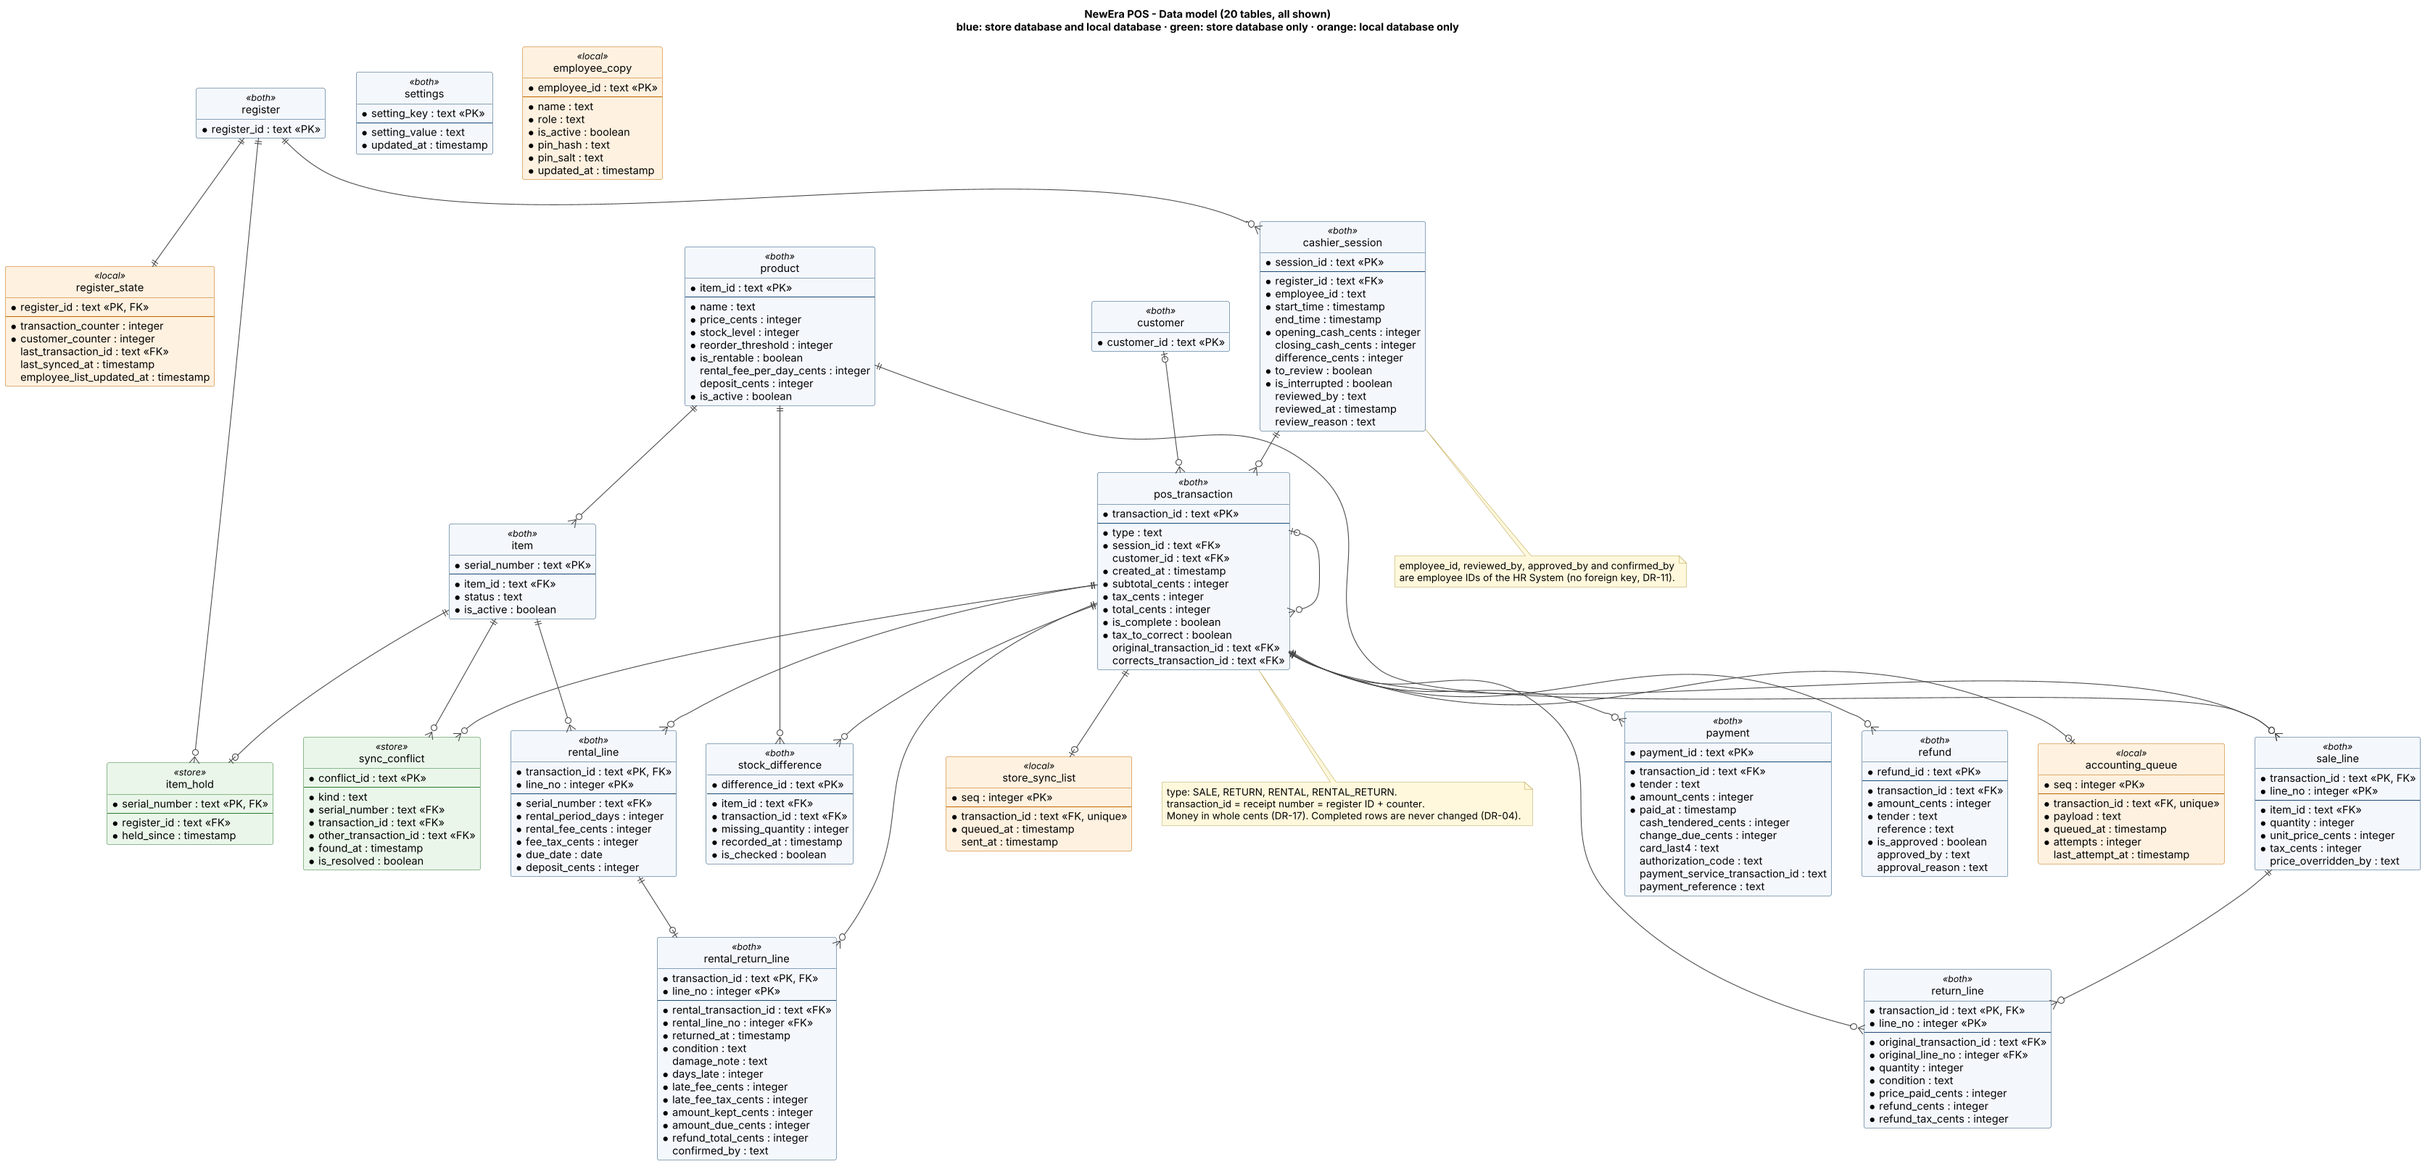
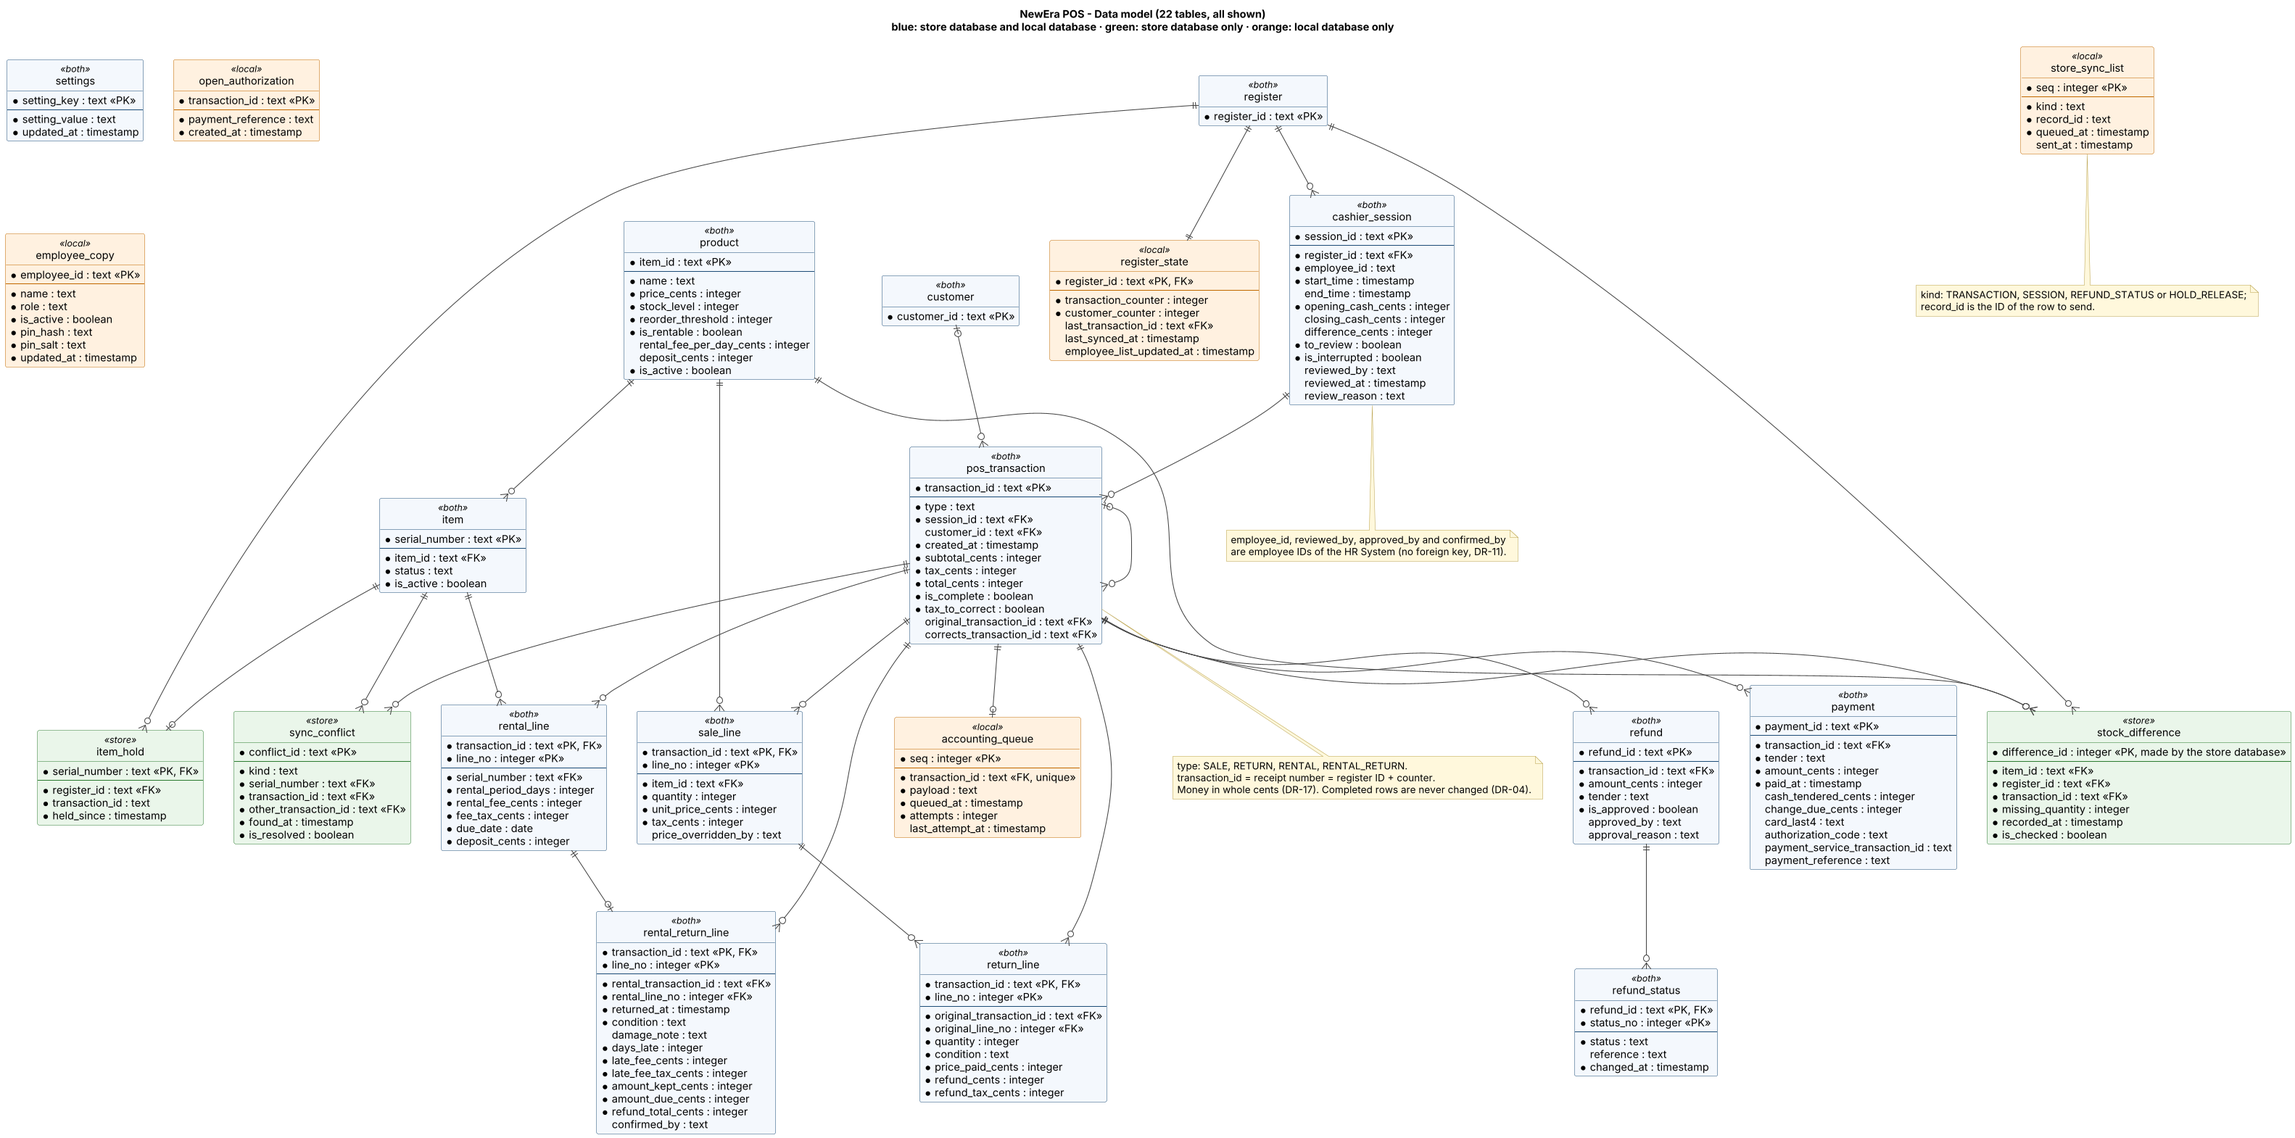
W10 - Data model v0.2; answer review #59 (refund_status, store database user, records waiting for the store database, stock_difference, open authorizations)

diff --git a/docs/design/data_model.md b/docs/design/data_model.md
@@ -3,7 +3,7 @@
 | | |
 | --- | --- |
 | **Maintainer** | Borja Nicolás |
-| **Version** | 0.1 (draft for review) |
+| **Version** | 0.2 (draft for review; after review #59) |
 | **Last updated** | W10 |
 | **Part of** | Increment 2 (Design): data view ([architecture.md](architecture.md) §4.5), decision records AD-05 and AD-06 |
 
@@ -15,14 +15,14 @@ This document gives the **tables of the store database and of the local database
 
 ![NewEra POS data model](../../assets/data_model.png)
 
-_20 of 20 tables shown. Editable source: [`assets/data_model.puml`](../../assets/data_model.puml) (PlantUML). Blue: table in the store database and in the local database. Green: store database only. Orange: local database only. `<<PK>>` primary key, `<<FK>>` foreign key; a column with a bullet is mandatory._
+_22 of 22 tables shown. Editable source: [`assets/data_model.puml`](../../assets/data_model.puml) (PlantUML). Blue: table in the store database and in the local database. Green: store database only. Orange: local database only. `<<PK>>` primary key, `<<FK>>` foreign key; a column with a bullet is mandatory._
 
 ## 3. Rules for all tables
 
 | Rule | What it means | Source |
 | --- | --- | --- |
 | Money in whole cents | Every amount is an integer number of cents (`price_cents`, `total_cents`…), so there are no rounding errors of floating-point numbers. The currency is one for the whole store (see §6). | DR-17 |
-| Completed rows never change | A completed transaction, its lines, payments and refunds are inserted once and never updated or deleted. A correction (for example, the tax of a transaction marked `tax_to_correct`) is a new `pos_transaction` row whose `corrects_transaction_id` is the original. | DR-04 |
+| Completed rows never change | A completed transaction, its lines, payments and refunds are inserted once and never updated or deleted. A correction (for example, the tax of a transaction marked `tax_to_correct`) is a new `pos_transaction` row whose `corrects_transaction_id` is the original. A card refund that is still pending changes its state by a **new row** of `refund_status`, so the `refund` row itself never changes. Two kinds of rows are updated on purpose, and are not transactions: the `cashier_session` (closed, then reviewed) and, in the store database, `item.status`, `product.stock_level` and `settings`. The rule is kept by the database user of the **store database**, see §4.6. | DR-04 |
 | No deletion of used rows | A product, item or customer that a transaction refers to is never deleted; a product or an item that is no longer used gets `is_active = false`. | DR-16 |
 | Unique IDs without a central counter | `transaction_id` is the receipt number: register ID, a dash and the counter of the register (for example `R02-000153`). `customer_id` is built in the same way. The counters are in `register_state`. | DC-09, AD-05 |
 | Employees are not a table of the store | The HR System is the master of the employees. `employee_id` columns (`cashier_session.employee_id`, `reviewed_by`, `approved_by`, `confirmed_by`, `price_overridden_by`) have no foreign key. | DR-11, IR-08 |
@@ -37,8 +37,8 @@ _20 of 20 tables shown. Editable source: [`assets/data_model.puml`](../../assets
 | --- | --- | --- | --- | --- |
 | `product` | `ProductDescription` | `item_id` (PK), `name`, `price_cents`, `stock_level`, `reorder_threshold`, `is_rentable`, `rental_fee_per_day_cents`, `deposit_cents`, `is_active` | Both. Master: store database | DR-01, DR-20, DR-16 |
 | `item` | `Item`: one rentable unit | `serial_number` (PK), `item_id` (FK), `status` (`AVAILABLE`, `RENTED`, `UNDER_MAINTENANCE`), `is_active` | Both. Master: store database | DR-02 |
-| `item_hold` | A rental that is open at a register has a hold on the item (AD-05). `serial_number` is the primary key, so only one register can hold an item. | `serial_number` (PK, FK), `register_id` (FK), `held_since` | Store database only | BR-11, DC-09 |
-| `stock_difference` | A sale that would make the stock level negative: the stock is set to zero and the missing quantity is recorded for a stock check by the store manager. | `difference_id` (PK), `item_id` (FK), `transaction_id` (FK), `missing_quantity`, `recorded_at`, `is_checked` | Both | FR-19 |
+| `item_hold` | A rental that is open at a register has a hold on the item (AD-05). `serial_number` is the primary key, so only one register can hold an item. The hold is removed in the store database transaction that stores the completed rental. | `serial_number` (PK, FK), `register_id` (FK), `transaction_id` (the open rental), `held_since` | Store database only | BR-11, DC-09 |
+| `stock_difference` | The store database changes the stock level by quantities; when the result would be below zero it sets zero and records the missing quantity here, for a stock check by the store manager (FR-19, FR-68). The ID is made by the store database, so two registers cannot make the same one. The register does not keep this table. | `difference_id` (PK), `item_id` (FK), `register_id` (FK), `transaction_id` (FK), `missing_quantity`, `recorded_at`, `is_checked` | Store database only | FR-19, FR-68 |
 | `settings` | Default tax rate, reorder threshold, currency code, timeouts that a store manager may change. | `setting_key` (PK), `setting_value`, `updated_at` | Both. Master: store database | DR-15, BR-02, BR-04 |
 
 ### 4.2 Store, registers and sessions
@@ -59,9 +59,10 @@ _20 of 20 tables shown. Editable source: [`assets/data_model.puml`](../../assets
 | `rental_line` | `RentalLineItem` | `transaction_id`, `line_no` (PK), `serial_number` (FK), `rental_period_days`, `rental_fee_cents`, `fee_tax_cents`, `due_date`, `deposit_cents` | DR-06, DR-20 |
 | `rental_return_line` | `RentalReturn`: one row for each returned rental line | `transaction_id`, `line_no` (PK), `rental_transaction_id`, `rental_line_no` (FK), `returned_at`, `condition`, `damage_note`, `days_late`, `late_fee_cents`, `late_fee_tax_cents`, `amount_kept_cents`, `amount_due_cents`, `refund_total_cents`, `confirmed_by` | DR-07 |
 | `payment` | `Payment`, `CashPayment`, `CreditCardPayment` in one table | `payment_id` (PK), `transaction_id` (FK), `tender`, `amount_cents`, `paid_at`, `cash_tendered_cents`, `change_due_cents`, `card_last4`, `authorization_code`, `payment_service_transaction_id`, `payment_reference` | DR-05, DR-19 |
-| `refund` | `Refund` | `refund_id` (PK), `transaction_id` (FK), `amount_cents`, `tender`, `reference`, `is_approved`, `approved_by`, `approval_reason` | DR-08, FR-25 |
+| `refund` | `Refund`. Written once, when the return or the rental return is saved | `refund_id` (PK), `transaction_id` (FK), `amount_cents`, `tender`, `is_approved`, `approved_by`, `approval_reason` | DR-08, FR-25 |
+| `refund_status` | The states of a refund, one new row for each change. The current state is the row with the highest `status_no`. A card refund without an answer starts as `PENDING`; later it becomes `CARD_REFUNDED` or `NEEDS_APPROVAL` (system_interfaces.md §3.7); a cash refund has `CASH_PAID`. | `refund_id`, `status_no` (PK), `status`, `reference` (Payment Service reference of the card refund), `changed_at` | FR-26, FR-55, FR-77, IR-03 |
 
-The overdue status of a rental is not stored: it is calculated from `due_date` and the current date (DR-06). A rental line is open as long as no `rental_return_line` refers to it. The payment fields that belong to the card payment (`authorization_code`, `payment_service_transaction_id`, `payment_reference`) are encrypted by `TransactionRepository` before they are written (AD-09, NFR-20).
+The overdue status of a rental is not stored: it is calculated from `due_date` and the current date (DR-06). A rental line is open as long as no `rental_return_line` refers to it. The card fields are encrypted by `TransactionRepository` before they are written (AD-09, NFR-20): in `payment` the `authorization_code`, `payment_service_transaction_id` and `payment_reference`, and in `refund_status` the `reference`. The pending card refunds of FR-77 are the refunds whose current state is `PENDING`.
 
 ### 4.4 Synchronisation, queue and local state
 
@@ -69,11 +70,31 @@ The overdue status of a rental is not stored: it is calculated from `due_date` a
 | --- | --- | --- | --- | --- |
 | `sync_conflict` | Two rentals of the same item that were found when an offline register sent its transactions (AD-05). For the store manager. | `conflict_id` (PK), `kind`, `serial_number` (FK), `transaction_id` (FK), `other_transaction_id` (FK), `found_at`, `is_resolved` | Store database only | DC-09, BR-11 |
 | `accounting_queue` | The queue for the Accounting System (AD-06). A row is deleted after the acknowledgement. | `seq` (PK, the order), `transaction_id` (FK, unique), `payload`, `queued_at`, `attempts`, `last_attempt_at` | Local database only | DR-12, IR-06, IR-07 |
-| `store_sync_list` | The transactions waiting for the store database (AD-05), in the order made. A row is marked as sent after the store database has committed the transaction. | `seq` (PK), `transaction_id` (FK, unique), `queued_at`, `sent_at` | Local database only | DC-09, DR-13 |
+| `store_sync_list` | The records waiting for the store database (AD-05), in the order made: a transaction, a cashier session (when it opens and when it closes), a new refund status, or the removal of a hold. A row is marked as sent after the store database has committed it. | `seq` (PK), `kind` (`TRANSACTION`, `SESSION`, `REFUND_STATUS`, `HOLD_RELEASE`), `record_id`, `queued_at`, `sent_at` | Local database only | DC-09, DR-13 |
+| `open_authorization` | A card payment that the Payment Service has authorized and whose transaction is not completed yet; it is voided at start-up after a crash (IR-15). Deleted when the transaction is saved or the authorization is voided. | `transaction_id` (PK), `payment_reference`, `created_at` | Local database only | IR-15, IR-03 |
 | `employee_copy` | Local copy of the employee list of the HR System | `employee_id` (PK), `name`, `role`, `is_active`, `pin_hash`, `pin_salt`, `updated_at` | Local database only | DR-11, IR-09 |
 | `register_state` | The counters for the unique IDs, the last transaction (to print the receipt again) and the time of the last synchronisation | `register_id` (PK, FK), `transaction_counter`, `customer_counter`, `last_transaction_id`, `last_synced_at`, `employee_list_updated_at` | Local database only | DR-14, DC-09 |
 
 The open sale, rental or return of a register is saved in `pos_transaction` with `is_complete = false`, in the local database only, so that it can be recovered after a crash (FR-48, IR-15). It is sent to the store database only when it is complete. The log of failed communications (IR-10) is a file of the register, not a table.
+
+### 4.5 Customers, sessions and stock differences that go up
+
+Besides the transactions, the register sends to the store database (AD-05): a new `customer`, in the same store database transaction as the rental that created it; the `cashier_session`, when it opens and again when it closes or is found interrupted, so that it is in the store database before its first transaction; and a new `refund_status`. The review of a session is written directly in the store database (FR-74, FR-75), and the register gets it back with the next copy of the master data. The `stock_difference` rows are made only by the store database.
+
+### 4.6 What the database user of the store database may do
+
+The register connects to the store database with one user. The rule of DR-04 is kept for this user; the local database is a file of the register and has no user.
+
+| Tables | The user of the register may |
+| --- | --- |
+| `pos_transaction`, `sale_line`, `return_line`, `rental_line`, `rental_return_line`, `payment`, `refund`, `refund_status` | Insert only (no update, no delete) |
+| `customer`, `stock_difference`, `sync_conflict` | Insert only (a store manager sets `is_resolved` and `is_checked`) |
+| `cashier_session` | Insert, and update when it closes and when it is reviewed; no delete |
+| `item_hold` | Insert and delete |
+| `item` | Update `status` (rental, rental return) |
+| `product` | Update `stock_level` (by quantity); insert and update for the catalog import (IR-17); no delete |
+| `settings` | Update (only for a store manager request, BR-04) |
+| `register` | Read |
 
 ## 5. Traceability: DR to tables
 
@@ -82,16 +103,16 @@ The open sale, rental or return of a register is saved in `pos_transaction` with
 | DR-01 | `product` |
 | DR-02 | `item.status` and `item.item_id`; the change from _Under maintenance_ to _Available_ is a store manager action |
 | DR-03 | `pos_transaction`, `sale_line` (`unit_price_cents` copied at the moment of the sale), `payment` |
-| DR-04 | `pos_transaction.corrects_transaction_id`; the register database user has no `UPDATE` or `DELETE` on the transaction tables (AD-05) |
+| DR-04 | `pos_transaction.corrects_transaction_id`; the **store database user** has no `UPDATE` or `DELETE` on the transaction tables (§4.6, AD-05) |
 | DR-05 | `payment` (`cash_tendered_cents`, `change_due_cents`, `card_last4`, `authorization_code`); no column for the full card number |
 | DR-06 | `pos_transaction` (type `RENTAL`), `rental_line`; overdue not stored |
-| DR-07 | `rental_return_line`, `refund` |
+| DR-07 | `rental_return_line`, `refund`, `refund_status` |
 | DR-08 | `pos_transaction.original_transaction_id`, `return_line`, `refund`; the quantity already returned of a sale line is the sum of `return_line.quantity` with this `original_transaction_id` and `original_line_no` |
 | DR-09 | `cashier_session` |
 | DR-10 | `sale_line.price_overridden_by` |
 | DR-11 | `employee_copy` |
 | DR-12 | `accounting_queue` |
-| DR-13 | the local database (SQLite, one database transaction for each completed transaction, AD-05) |
+| DR-13 | the local database (SQLite, one database transaction for each completed transaction, AD-05); `open_authorization`, `store_sync_list` |
 | DR-14 | `register_state.last_transaction_id` |
 | DR-15 | `settings` (default tax rate) |
 | DR-16 | `is_active` of `product` and `item`; no deletion; `customer` rows are never deleted |
@@ -105,10 +126,10 @@ The open sale, rental or return of a register is saved in `pos_transaction` with
 - **Currency.** One currency for the whole store, set in `settings` as a currency code when the register is installed. There is no conversion (DR-17). The amounts are cents of that currency.
 - **Tax rounding.** The tax is calculated and stored **per line**: the Tax Calculator returns the tax of each line (system_interfaces.md §4.1), and the POS stores it in `sale_line.tax_cents` or `rental_line.fee_tax_cents`, rounded **half up** to whole cents if the answer has more decimals. The tax of the transaction is the **sum** of the taxes of its lines, so that the receipt adds up exactly. When the default tax rate is used (IR-05), the POS calculates the same way, line by line. The deposit has no tax (SRS question 1); the late fee has the tax of the rental fee, stored in `rental_return_line.late_fee_tax_cents`.
 - **Tax of a return.** The refunded tax of a return line is the stored tax of the sale line for the returned quantity: tax of the line × quantity returned ÷ quantity sold, rounded half up. The last return of a line takes what is left of the tax, so that the refunded taxes of all returns of a line add up to the tax of the sale.
-- **Retention.** The accounting record is deleted after the acknowledgement (DR-12). The register deletes from its local database the transactions that the store database has acknowledged, after **90 days**: the refund period is 30 days, a rental lasts 7 days at most, and a session is reviewed within days. Transactions that the store database has not acknowledged are never deleted. The store database keeps every transaction and the POS never deletes one. The legal retention period of the accounting data (for example 7 years in many countries) has to be confirmed with the owner of the store; it concerns the store database and its backup, not the registers.
+- **Retention.** The accounting record is deleted after the acknowledgement (DR-12). The register deletes from its local database the transactions that the store database has acknowledged, after **90 days**: the refund period is 30 days, a rental lasts 7 days at most, and a session is reviewed within days. Transactions that the store database has not acknowledged are never deleted. A rental that is still open (a `rental_line` without a `rental_return_line`) is never deleted either, however old it is: the overdue check (BR-12) and the rental return need it also when the store database is not available. The store database keeps every transaction and the POS never deletes one. The legal retention period of the accounting data (for example 7 years in many countries) has to be confirmed with the owner of the store; it concerns the store database and its backup, not the registers.
 
 ## 7. Open points
 
 1. The size of the local database with 90 days of transactions has not been measured; it is checked with the performance test of NFR-01 and NFR-02 (10,000 products).
-2. The data model has no table for the pending refund of a card refund without answer (UC2 and UC5 9b2b) and no table for the repair of an item (DR-02): the SRS has no function for them yet (domain model §7.3, gaps 2 and 1: pending refund and repair).
+2. The data model has no table for the repair of an item (DR-02): the SRS has no function for it yet (domain model §7.3, gap 1). The pending card refund (domain model §7.3, gap 2) is covered since FR-77 by `refund_status`.
 3. The columns and the keys are the logical design. Indexes, the exact column types of PostgreSQL and SQLite and the schema script are written in the detailed design (W11).
